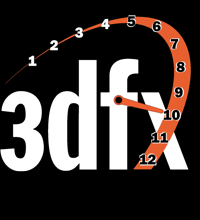
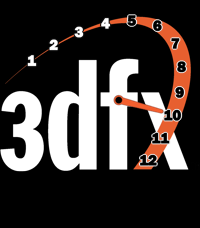
Improved image and performance
Minimized drawing area to improve performance
re-rendered background images for correct size
recreated outlines for better readability

diff --git a/src/embeddedjs/main.js b/src/embeddedjs/main.js
@@ -4,29 +4,58 @@ const render = new Poco(screen);
 const black = render.makeColor(0, 0, 0);
 const white = render.makeColor(255, 255, 255);
 const orange = render.makeColor(231, 95, 47);
+const gray = render.makeColor(127, 127, 127);
 //const timeFont = new render.Font("Bitham-Black", 30);
 //const timeFont = new render.Font("Roboto-Condensed", 21);
 const timeFont = new render.Font("Gothic-Bold", 18);
+//const timeFont = new render.Font("Gothic-Regular", 18);
 
 function draw(event) {  
   const now = event.date;
   const minutes = String(now.getMinutes()).padStart(2, "0");
-  render.begin();
   if (minutes == "00") {
+    render.begin(36,26, 152+1, 143+1); // Wir aktualisieren nur Zeiger und Ziffern
     const hours = now.getHours();
+    console.log(hours);
 	  drawHours(hours, render);
-  }
-  render.fillRectangle(white, 168, 158, 15, 12);	    
-  render.drawText(minutes, timeFont, orange,
-        170-2,
+  } else {
+    render.begin(168-1, 154-1, 15+2, 16+2);  // Wir aktualisieren nur Ziffern
+  }  
+  render.fillRectangle(white, 168, 154, 15, 12);	    
+  /*
+  drawTextWithOutline(render, minutes, timeFont, orange, gray,
+        170-1,
         160-6);
-  render.end();
+  */
+  render.drawText(minutes, timeFont, orange, 168, 150);
+  render.end();  
 }
 
 function drawHours(hours, render) {
+  hours = hours % 12;
+  if (hours == 0) {
+    hours = 12;
+  }
   const bitmap = new Poco.PebbleBitmap(hours);
   render.fillRectangle(black, 0, 0, render.width, render.height);	
 	render.drawBitmap(bitmap, (render.width - bitmap.width) / 2, (render.height - bitmap.height) / 2);
+}
+
+function drawTextWithOutline(render, text, font, fillColor, outlineColor, x, y) {
+    // 1. Draw the outline by offsetting the text 1 pixel in all 4 cardinal directions
+    render.drawText(text, font, outlineColor, x - 1, y);     // Left
+    render.drawText(text, font, outlineColor, x + 1, y);     // Right
+    render.drawText(text, font, outlineColor, x,     y - 1); // Up
+    render.drawText(text, font, outlineColor, x,     y + 1); // Down
+
+    // Optional: Add diagonal offsets for a thicker/smoother outline
+    // render.drawText(text, font, outlineColor, x - 1, y - 1);
+    // render.drawText(text, font, outlineColor, x + 1, y - 1);
+    // render.drawText(text, font, outlineColor, x - 1, y + 1);
+    // render.drawText(text, font, outlineColor, x + 1, y + 1);
+
+    // 2. Draw the main text on top in the center
+    render.drawText(text, font, fillColor, x, y);
 }
 
 //initial background render
